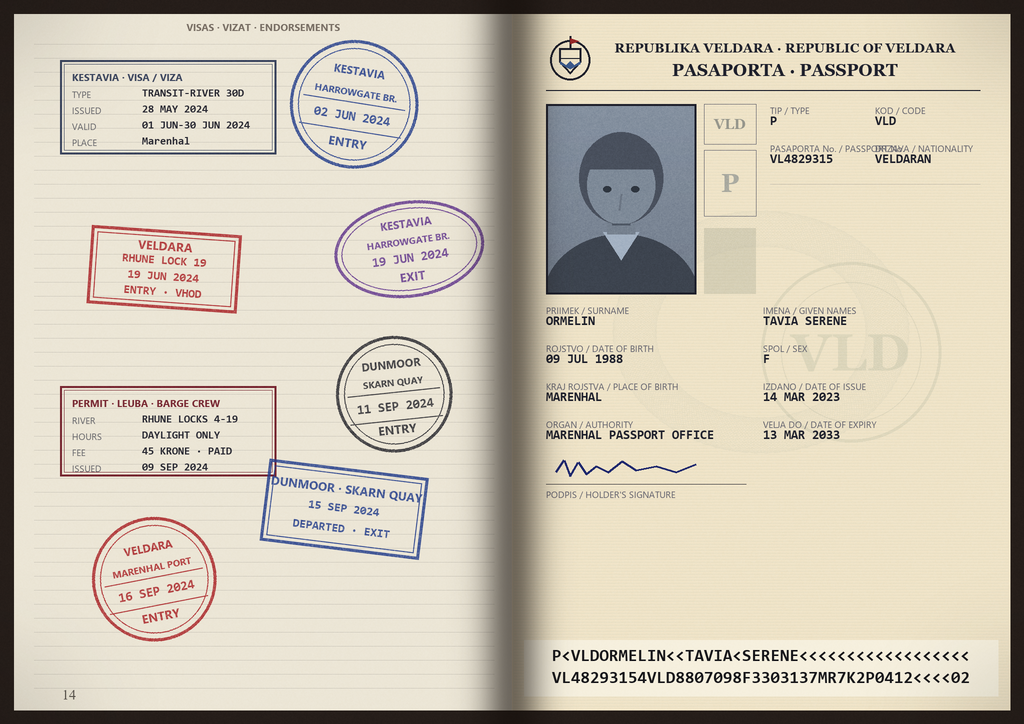
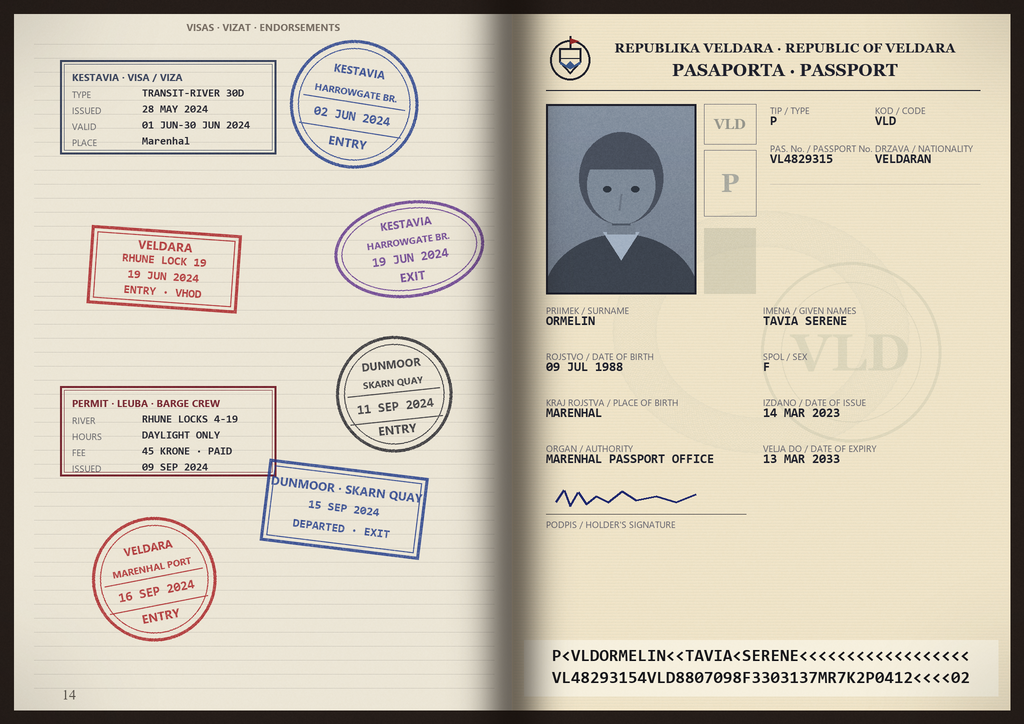
fix(layout): label overlap and field spacing

Changed region(s): [[0.5312, 0.4558, 0.6875, 0.7293], [0.75, 0.4558, 0.8438, 0.6381], [0.7812, 0.1823, 0.875, 0.2127]]

diff --git a/gen_passport.py b/gen_passport.py
@@ -273,7 +273,7 @@ def field(col, row, label, value, span=1):
     T(d, (x, y + 11 * S), value, fv, ink)
 field(0, 0, "TIP / TYPE", "P")
 field(1, 0, "KOD / CODE", CODE)
-field(0, 1, "PASAPORTA No. / PASSPORT No.", PNO)
+field(0, 1, "PAS. No. / PASSPORT No.", PNO)
 field(1, 1, "DRZAVA / NATIONALITY", "VELDARAN")
 d.line([(fx0, py0 + 80 * S), (rx1, py0 + 80 * S)], fill=(190, 185, 170), width=1)
 # wide fields below the portrait
@@ -283,7 +283,7 @@ fx0 = rx0
 colw = (rx1 - rx0) // 2
 def field2(col, row, label, value):
     x = rx0 + col * colw
-    y = fy + row * 38 * S
+    y = fy + row * 46 * S
     T(d, (x, y), label, fl, lab)
     T(d, (x, y + 11 * S), value, fv, ink)
 # row set below
@@ -296,7 +296,7 @@ field2(1, 2, "IZDANO / DATE OF ISSUE", dm(ISSUE))
 field2(0, 3, "ORGAN / AUTHORITY", "MARENHAL PASSPORT OFFICE")
 field2(1, 3, "VELJA DO / DATE OF EXPIRY", dm(EXPIRY))
 # signature
-sy = fy + 4 * 38 * S + 6 * S
+sy = fy + 4 * 46 * S + 4 * S
 d.line([(rx0, sy + 22 * S), (rx0 + 200 * S, sy + 22 * S)], fill=ink, width=1)
 T(d, (rx0, sy + 26 * S), "PODPIS / HOLDER'S SIGNATURE", fl, lab)
 sig = [(0, 14), (8, 2), (14, 18), (22, 4), (30, 16), (40, 8), (52, 14), (66, 3), (80, 12), (100, 8), (120, 14), (140, 6)]
